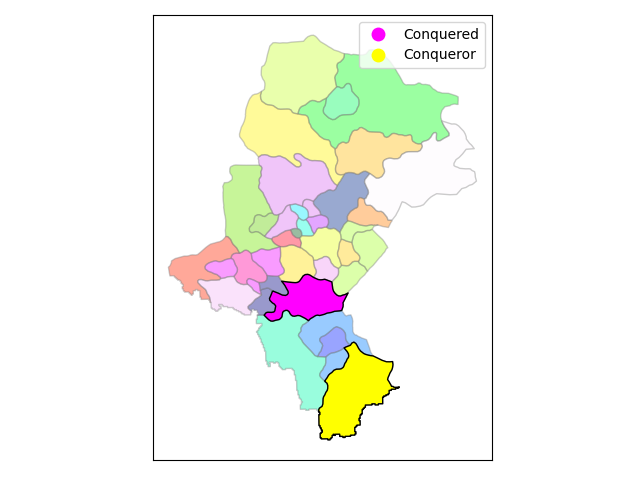
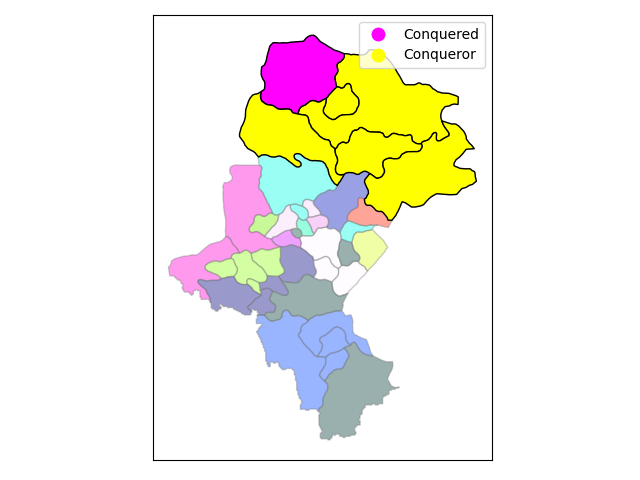
requirements

Changed region(s): [[0.25, 0.0625, 0.75, 0.9375]]

diff --git a/templates/res.html b/templates/res.html
@@ -2,6 +2,26 @@
 <link rel="stylesheet" href="../static/style.css">
 <p id="includedContent">
 
+<br /><br />8/3/2021 14:13  The county czestochowski conquered territory of klobucki previously owned by county Bytom. 
+<br /><br />8/3/2021 14:12  The county zywiecki conquered territory of Myslowice previously owned by county Myslowice. The county Myslowice was completely destroyed.
+<br /><br />8/3/2021 14:11  The county czestochowski conquered territory of zawiercianski previously owned by county zawiercianski. The county zawiercianski was completely destroyed.
+<br /><br />8/3/2021 14:10  The county Zory conquered territory of wodzislawski previously owned by county wodzislawski. The county wodzislawski was completely destroyed.
+<br /><br />8/3/2021 14:09  The county Zory conquered territory of mikolowski previously owned by county Swietochlowice. 
+<br /><br />8/3/2021 14:07  The county raciborski conquered territory of gliwicki previously owned by county gliwicki. 
+<br /><br />8/3/2021 14:06  The county czestochowski conquered territory of Czestochowa previously owned by county Czestochowa. The county Czestochowa was completely destroyed.
+<br /><br />8/3/2021 14:05  The county Bielsko-Biala conquered territory of cieszynski previously owned by county cieszynski. The county cieszynski was completely destroyed.
+<br /><br />8/3/2021 14:05  The county Tychy conquered territory of Katowice previously owned by county Katowice. The county Katowice was completely destroyed.
+<br /><br />8/3/2021 14:03  The county gliwicki conquered territory of Rybnik previously owned by county Rybnik. The county Rybnik was completely destroyed.
+<br /><br />8/3/2021 14:02  The county gliwicki conquered territory of rybnicki previously owned by county Zory. 
+<br /><br />8/3/2021 14:01  The county Bytom conquered territory of klobucki previously owned by county klobucki. The county klobucki was completely destroyed.
+<br /><br />8/3/2021 14:00  The county czestochowski conquered territory of myszkowski previously owned by county myszkowski. The county myszkowski was completely destroyed.
+<br /><br />8/3/2021 13:59  The county Bielsko-Biala conquered territory of bielski previously owned by county bielski. The county bielski was completely destroyed.
+<br /><br />8/3/2021 13:59  The county Bytom conquered territory of Sosnowiec previously owned by county Jaworzno. 
+<br /><br />8/3/2021 13:58  The county Tychy conquered territory of bierunsko-ledzinski previously owned by county Jaworzno. 
+<br /><br />8/3/2021 13:58  The county Zory conquered territory of rybnicki previously owned by county rybnicki. The county rybnicki was completely destroyed.
+<br /><br />8/3/2021 13:56  The county Swietochlowice conquered territory of mikolowski previously owned by county mikolowski. The county mikolowski was completely destroyed.
+<br /><br />8/3/2021 13:54  The county czestochowski conquered territory of lubliniecki previously owned by county lubliniecki. The county lubliniecki was completely destroyed.
+<br /><br />8/3/2021 13:52  The county Bytom conquered territory of tarnogorski previously owned by county tarnogorski. 
 <br /><br />8/3/2021 13:51  The county zywiecki conquered territory of pszczynski previously owned by county Zory. 
 <br /><br />8/3/2021 13:50  The county Zory conquered territory of Jastrzebie-Zdroj previously owned by county Jastrzebie-Zdroj. The county Jastrzebie-Zdroj was completely destroyed.
 <br /><br />8/3/2021 13:49  The county tarnogorski conquered territory of Piekary Slaskie previously owned by county Piekary Slaskie. 

diff --git a/templates/scores.html b/templates/scores.html
@@ -2,11 +2,11 @@
 <link rel="stylesheet" href="../static/style.css"><table id="sheet">
 <tr><th>County</th><th>Score</th><th>Number of territories</th></tr>
 <tr><td>Zory</td>
-<td>0.834</td>
-<td>2</td>
+<td>1.72</td>
+<td>4</td>
 </tr><tr><td>zywiecki</td>
-<td>1.086</td>
-<td>2</td>
+<td>1.577</td>
+<td>3</td>
 </tr><tr><td>Swietochlowice</td>
 <td>0.426</td>
 <td>1</td>
@@ -14,81 +14,42 @@
 <td>0.609</td>
 <td>1</td>
 </tr><tr><td>Bielsko-Biala</td>
-<td>0.449</td>
-<td>1</td>
-</tr><tr><td>bielski</td>
-<td>0.558</td>
-<td>1</td>
+<td>1.325</td>
+<td>3</td>
 </tr><tr><td>Bytom</td>
-<td>0.245</td>
-<td>1</td>
+<td>1.106</td>
+<td>3</td>
 </tr><tr><td>Chorzow</td>
 <td>0.38</td>
 <td>1</td>
-</tr><tr><td>cieszynski</td>
-<td>0.318</td>
-<td>1</td>
-</tr><tr><td>Czestochowa</td>
-<td>0.375</td>
-<td>1</td>
 </tr><tr><td>czestochowski</td>
-<td>0.512</td>
-<td>1</td>
+<td>2.683</td>
+<td>6</td>
 </tr><tr><td>Gliwice</td>
 <td>0.544</td>
 <td>1</td>
 </tr><tr><td>gliwicki</td>
-<td>0.407</td>
-<td>1</td>
+<td>0.994</td>
+<td>2</td>
 </tr><tr><td>Jaworzno</td>
-<td>1.502</td>
-<td>3</td>
-</tr><tr><td>klobucki</td>
-<td>0.365</td>
-<td>1</td>
-</tr><tr><td>Katowice</td>
-<td>0.25</td>
-<td>1</td>
-</tr><tr><td>lubliniecki</td>
-<td>0.422</td>
-<td>1</td>
-</tr><tr><td>mikolowski</td>
-<td>0.351</td>
-<td>1</td>
-</tr><tr><td>Myslowice</td>
-<td>0.491</td>
-<td>1</td>
-</tr><tr><td>myszkowski</td>
-<td>0.384</td>
+<td>0.849</td>
 <td>1</td>
 </tr><tr><td>Piekary Slaskie</td>
 <td>0.379</td>
 <td>1</td>
 </tr><tr><td>raciborski</td>
-<td>0.366</td>
-<td>1</td>
+<td>0.773</td>
+<td>2</td>
 </tr><tr><td>Ruda Slaska</td>
 <td>0.284</td>
-<td>1</td>
-</tr><tr><td>Rybnik</td>
-<td>0.514</td>
-<td>1</td>
-</tr><tr><td>rybnicki</td>
-<td>0.479</td>
 <td>1</td>
 </tr><tr><td>Siemianowice Slaskie</td>
 <td>0.591</td>
 <td>1</td>
 </tr><tr><td>tarnogorski</td>
-<td>1.512</td>
-<td>3</td>
+<td>0.98</td>
+<td>2</td>
 </tr><tr><td>Tychy</td>
-<td>0.352</td>
-<td>1</td>
-</tr><tr><td>wodzislawski</td>
-<td>0.535</td>
-<td>1</td>
-</tr><tr><td>zawiercianski</td>
-<td>0.625</td>
-<td>1</td>
+<td>0.926</td>
+<td>3</td>
 </tr></table>
